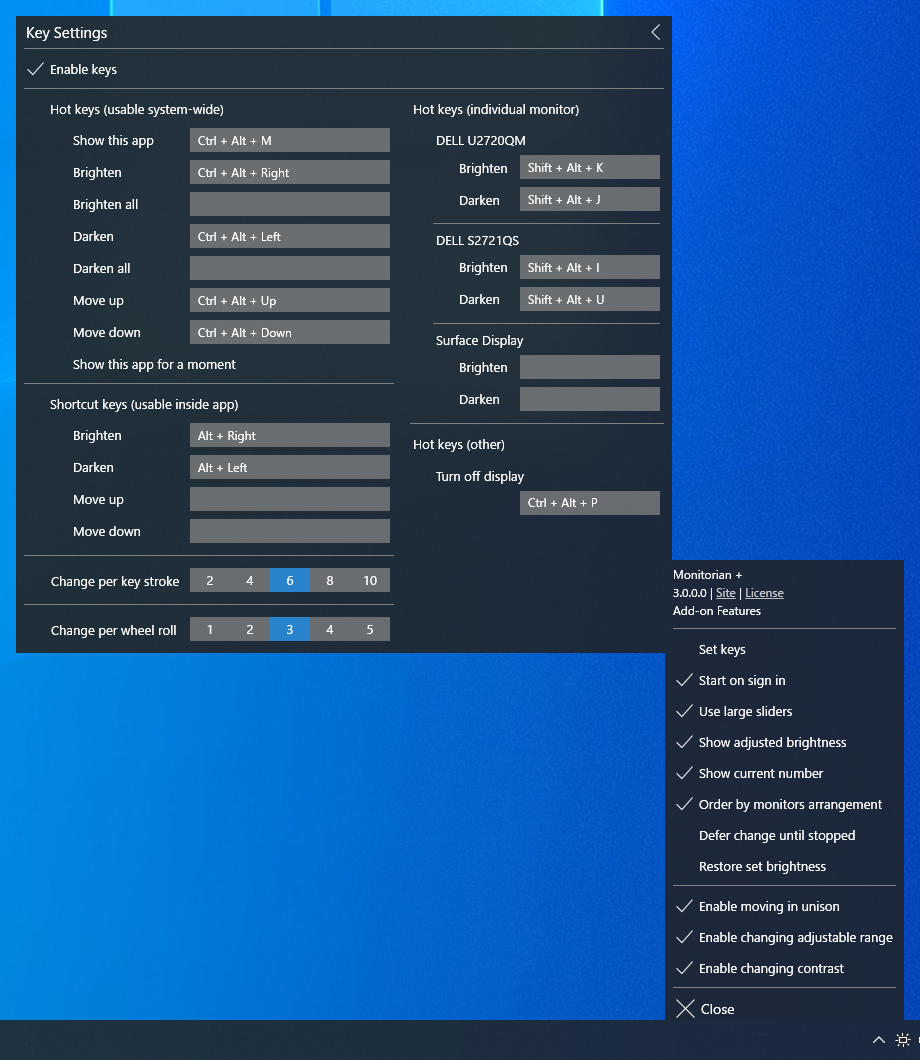
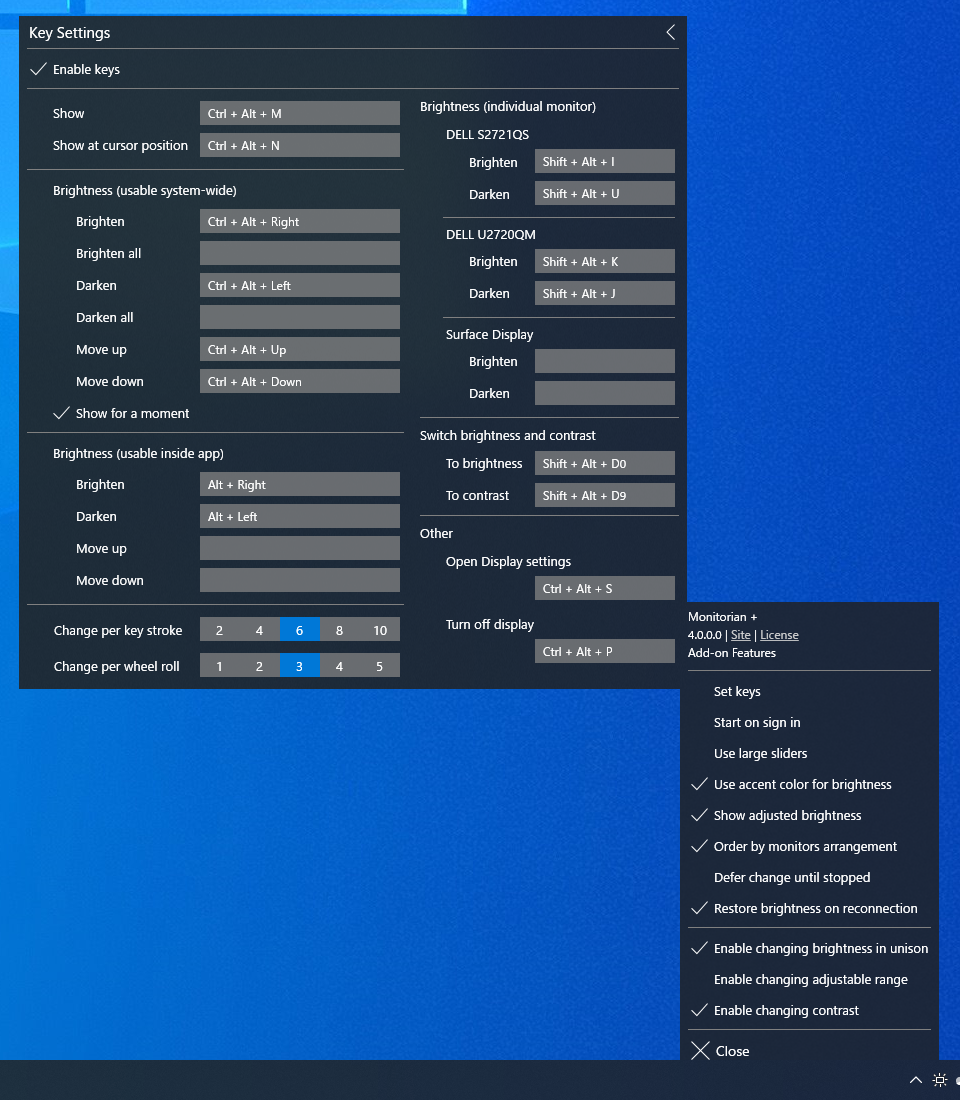
Update readme and images

Changed region(s): [[0.0, 0.0, 1.0, 0.9962], [0.3348, 0.0, 0.3652, 0.0311]]

diff --git a/README.md b/README.md
@@ -15,6 +15,8 @@ In addition, the user can change the adjustable range of brightness and contrast
 ![Screenshot](Images/Screenshot_range.png)&nbsp;
 ![Screenshot](Images/Screenshot_contrast.png)<br>
 
+https://user-images.githubusercontent.com/7205690/210137118-66cfdd6e-9847-41b3-a836-d1ff8cf73f3d.mp4
+
 Additional languages:
 
  - Arabic (ar) by @MohammadShughri
@@ -54,7 +56,7 @@ Additional languages:
    ```
 
  * Other:<br>
-:floppy_disk: [Installer](https://github.com/emoacht/Monitorian/releases/download/3.15.3-Installer/MonitorianInstaller3153.zip)
+:floppy_disk: [Installer](https://github.com/emoacht/Monitorian/releases/download/4.0.0-Installer/MonitorianInstaller400.zip)
 
 ## Install/Uninstall
 
@@ -84,9 +86,11 @@ Add-on features are available for Microsoft Store version on a subscription basi
 
 ![Screenshot](Images/Screenshot_keys_en.png)
 
+All hot keys for brightness can be switched to contrast by `To contrast` hot key. It can be switched back to brightness by `To brightness` hot key.
+
 ### Command-line options
 
-You can use command-line options to get/set the brightness.
+You can use command-line options to get/set the brightness or contrast.
 
 | Actions                                | Options                                |
 |----------------------------------------|----------------------------------------|
@@ -97,7 +101,29 @@ You can use command-line options to get/set the brightness.
 | Set brightness of a specified monitor. | /set [Device Instance ID] [Brightness] |
 | Set brightness of all monitors.        | /set all [Brightness]                  |
 
-If this app is called with `/get` option, it will return [Device Instance ID] [Monitor name] [Brightness]. The device instance ID is an unique identifier given by the OS to each monitor. The brightness ranges from 0 to 100%. It can be specified with brightness itself (e.g. 20), increase (e.g. +10) or decrease (e.g. -10) when you use `/set` option.
+You can switch to contrast by inserting `contrast` after `/get` or `/set` (e.g. `/get contrast all`).
+
+If this app is called with `/get` or `/set`, it will return
+
+```
+[Device Instance ID] [Monitor name] [Brightness] B
+```
+
+'B' at the end indicates brightness. In addition, '*' is added in the case of a selected monitor. 
+
+If this app is call with `/get contrast` or `/set contrast`, it will return
+
+```
+[Device Instance ID] [Monitor name] [Contrast] C
+```
+
+'C' at the end indicates contrast. If contrast is not supported by a monitor, '-' will be shown instead.
+
+The device instance ID is an unique identifier given by the OS to each monitor. It must be enclosed in quotes. 
+
+The brightness or contrast ranges from 0 to 100%. When you use `/set` option, it can be specified with the number itself (e.g. 20), increase (e.g. +10) or decrease (e.g. -10).
+
+The options can be executed consecutively (e.g. `monitorian /get 20 /get contrast 20`).
 
 You can call this app by its name `Monitorian` in command prompt or bat file. From Task Scheduler, it can be performed by the path to its alias `%LOCALAPPDATA%\Microsoft\WindowsApps\Monitorian.exe`. For example, to increase brightness of all monitors by 30%, the Action will be the following:
 
@@ -186,10 +212,15 @@ An alternative language can be shown by adding a Resources (.resx) file into `/S
 
 ## History
 
+Ver 4.0 2022-12-31
+
+ - Modify UI
+ - Add Ukrainian (uk-UA) language. Thanks to @kaplun07!
+
 Ver 3.15 2022-12-4
 
  - Fix touchpad swipe
- - Supplement Simplified Chinese (zh-Hans). Thanks to @FrzMtrsprt!
+ - Supplement Simplified Chinese (zh-Hans) language. Thanks to @FrzMtrsprt!
 
 Ver 3.14 2022-10-23
 
